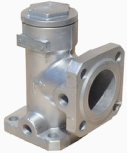
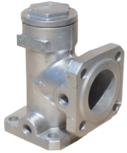
upd catalog image

diff --git a/assets/css/style.css b/assets/css/style.css
@@ -932,7 +932,13 @@ body {
 }
 .item__image img {
   max-width: 100%;
-  height: auto;
+  height: 100%;
+  max-height: 150px;
+}
+@media (max-width: 999px) {
+  .item__image img {
+    max-height: 130px;
+  }
 }
 
 /* Colors */

diff --git a/assets/sass/_catalog.scss b/assets/sass/_catalog.scss
@@ -134,7 +134,12 @@
 
     img {
         max-width: 100%;
-        height: auto;
+        height: 100%;
+        max-height: 150px;
+
+        @media (max-width: 999px) {
+            max-height: 130px;
+        }
     }
 }
 
